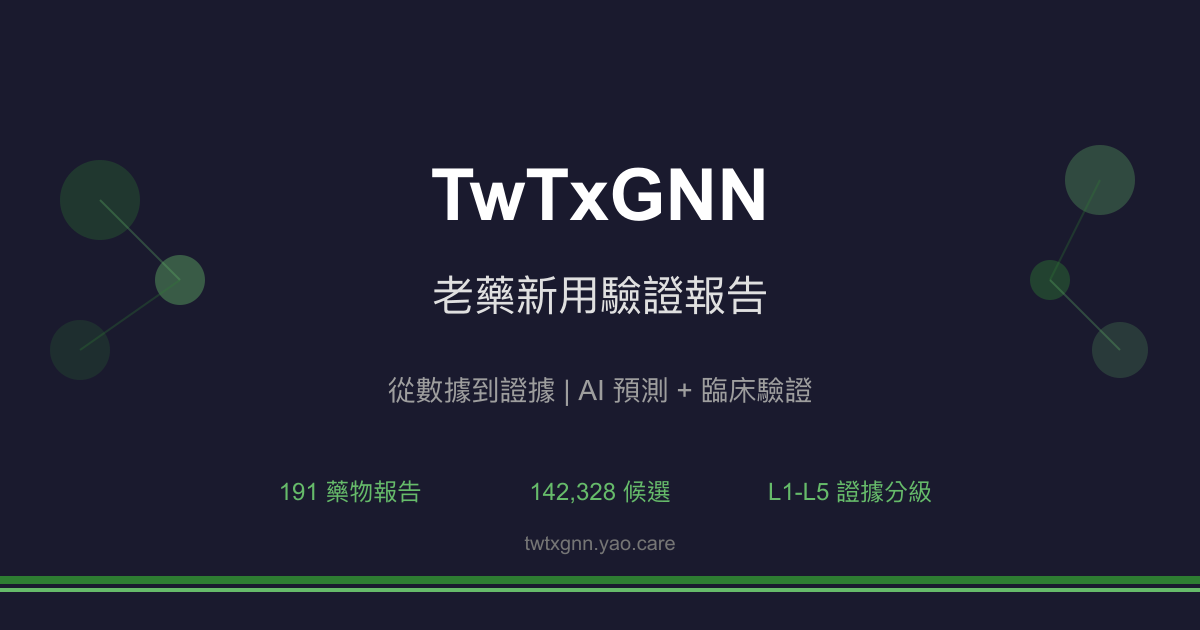
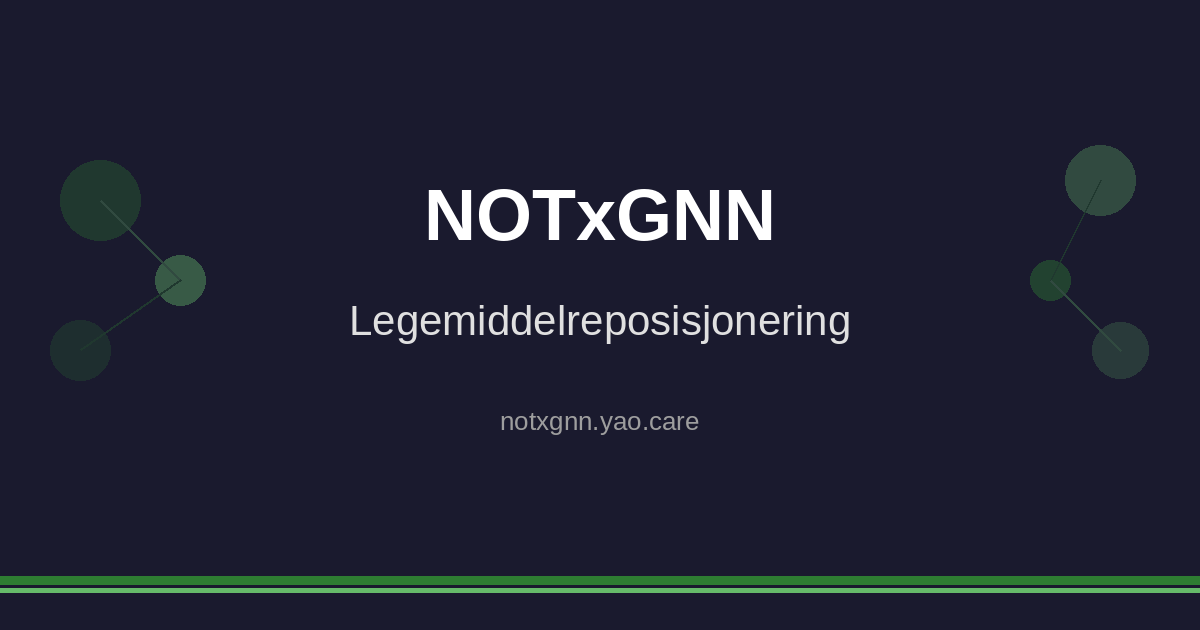
fix: 移除照抄 TwTxGNN 的內容（og 圖、分享按鈕）
- og-default.png／svg：原檔是 TwTxGNN 的圖（TwTxGNN、191 藥物報告、142,328 候選、twtxgnn.yao.care）。
  改由母 repo .claude/gen_og_image.py 產生本站圖：只放站名、網域、本站語言的一行副標（取自 _config.yml title），不放數字。
- assets/images/README.md：設計要求裡的「TwTxGNN」與標語改成本站實際內容，註明產生方式。
- _includes/social-share.html：X hashtag 與 mailto 主旨的 TwTxGNN → NOTxGNN；推文與郵件內文原為中文「老藥新用驗證報告」，按鈕文字原為英文，改成本站語言。（此 include 目前沒有頁面引用，先修正以免日後啟用時帶出 Tw 字樣。）

Claude-Session: https://claude.ai/code/session_013aGXmRzC9hmsD5XtZ9FusM

diff --git a/docs/_includes/social-share.html b/docs/_includes/social-share.html
@@ -1,14 +1,14 @@
-<!-- 學術分享按鈕 -->
+<!-- Share buttons -->
 <div class="social-share" style="margin: 2rem 0; padding: 1.25rem; background: #f8f9fa; border-radius: 8px; border: 1px solid #e0e0e0;">
-  <strong style="display: block; margin-bottom: 0.75rem; color: #333;">Share this report:</strong>
+  <strong style="display: block; margin-bottom: 0.75rem; color: #333;">Del denne rapporten:</strong>
   <div style="display: flex; gap: 0.5rem; flex-wrap: wrap;">
     <!-- Twitter/X -->
-    <a href="https://twitter.com/intent/tweet?text={{ page.title | url_encode }}%20%E8%80%81%E8%97%A5%E6%96%B0%E7%94%A8%E9%A9%97%E8%AD%89%E5%A0%B1%E5%91%8A&url={{ page.url | absolute_url | url_encode }}&hashtags=DrugRepurposing,TwTxGNN"
+    <a href="https://twitter.com/intent/tweet?text={{ page.title | url_encode }}%20Rapport%20om%20legemiddelreposisjonering&url={{ page.url | absolute_url | url_encode }}&hashtags=DrugRepurposing,NOTxGNN"
        target="_blank" rel="noopener noreferrer"
        style="display: inline-flex; align-items: center; gap: 0.375rem; padding: 0.5rem 1rem; background: #000; color: white; text-decoration: none; border-radius: 6px; font-size: 0.9rem; font-weight: 500; transition: opacity 0.2s;"
        onmouseover="this.style.opacity='0.8'" onmouseout="this.style.opacity='1'">
       <svg width="16" height="16" fill="currentColor" viewBox="0 0 24 24"><path d="M18.244 2.25h3.308l-7.227 8.26 8.502 11.24H16.17l-5.214-6.817L4.99 21.75H1.68l7.73-8.835L1.254 2.25H8.08l4.713 6.231zm-1.161 17.52h1.833L7.084 4.126H5.117z"/></svg>
-      Share on X
+      Del på X
     </a>
 
     <!-- LinkedIn -->
@@ -20,16 +20,16 @@
       LinkedIn
     </a>
 
-    <!-- 複製連結 -->
+    <!-- Copy link -->
     <button onclick="copyReportLink(this)"
             style="display: inline-flex; align-items: center; gap: 0.375rem; padding: 0.5rem 1rem; background: #6c757d; color: white; border: none; border-radius: 6px; cursor: pointer; font-size: 0.9rem; font-weight: 500; transition: all 0.2s;"
             onmouseover="this.style.background='#5a6268'" onmouseout="this.style.background='#6c757d'">
       <svg width="16" height="16" fill="currentColor" viewBox="0 0 24 24"><path d="M16 1H4c-1.1 0-2 .9-2 2v14h2V3h12V1zm3 4H8c-1.1 0-2 .9-2 2v14c0 1.1.9 2 2 2h11c1.1 0 2-.9 2-2V7c0-1.1-.9-2-2-2zm0 16H8V7h11v14z"/></svg>
-      <span>Copy link</span>
+      <span>Kopier lenke</span>
     </button>
 
     <!-- Email -->
-    <a href="mailto:?subject={{ page.title | url_encode }}%20-%20TwTxGNN&body=%E6%8E%A8%E8%96%A6%E9%80%99%E4%BB%BD%E8%80%81%E8%97%A5%E6%96%B0%E7%94%A8%E9%A9%97%E8%AD%89%E5%A0%B1%E5%91%8A%EF%BC%9A%0A%0A{{ page.url | absolute_url | url_encode }}"
+    <a href="mailto:?subject={{ page.title | url_encode }}%20-%20NOTxGNN&body=Anbefalt%20rapport%20om%20legemiddelreposisjonering%3A%0A%0A{{ page.url | absolute_url | url_encode }}"
        style="display: inline-flex; align-items: center; gap: 0.375rem; padding: 0.5rem 1rem; background: #EA4335; color: white; text-decoration: none; border-radius: 6px; font-size: 0.9rem; font-weight: 500; transition: opacity 0.2s;"
        onmouseover="this.style.opacity='0.8'" onmouseout="this.style.opacity='1'">
       <svg width="16" height="16" fill="currentColor" viewBox="0 0 24 24"><path d="M20 4H4c-1.1 0-1.99.9-1.99 2L2 18c0 1.1.9 2 2 2h16c1.1 0 2-.9 2-2V6c0-1.1-.9-2-2-2zm0 4l-8 5-8-5V6l8 5 8-5v2z"/></svg>
@@ -44,7 +44,7 @@ function copyReportLink(btn) {
   navigator.clipboard.writeText(url).then(() => {
     const span = btn.querySelector('span');
     const originalText = span.textContent;
-    span.textContent = 'Copied!';
+    span.textContent = 'Kopiert!';
     btn.style.background = '#28a745';
     setTimeout(() => {
       span.textContent = originalText;

diff --git a/docs/assets/images/README.md b/docs/assets/images/README.md
@@ -15,11 +15,15 @@ nav_exclude: true
 
 ### 設計要求
 
-1. 包含網站名稱「TwTxGNN」
-2. 包含標語「老藥新用，從數據到證據」
-3. 簡潔、專業風格
-4. 背景純色或簡單圖案
+1. 包含網站名稱「NOTxGNN」與網域
+2. 包含該站語言的一行副標（取自 _config.yml 的 title）
+3. 不放藥物數、候選數等數字（會過期）
+4. 簡潔、專業風格
 5. 適合在社群媒體預覽顯示
+
+### 產生方式
+
+由 TxGNN 母 repo 的 `.claude/gen_og_image.py` 產生（同時輸出 og-default.svg）。
 
 ### 使用位置
 
